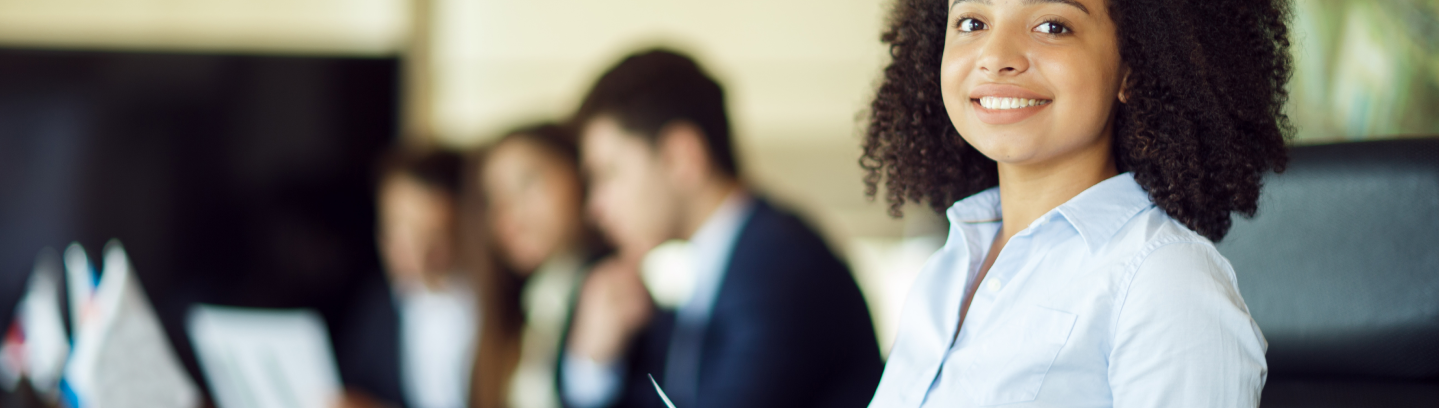
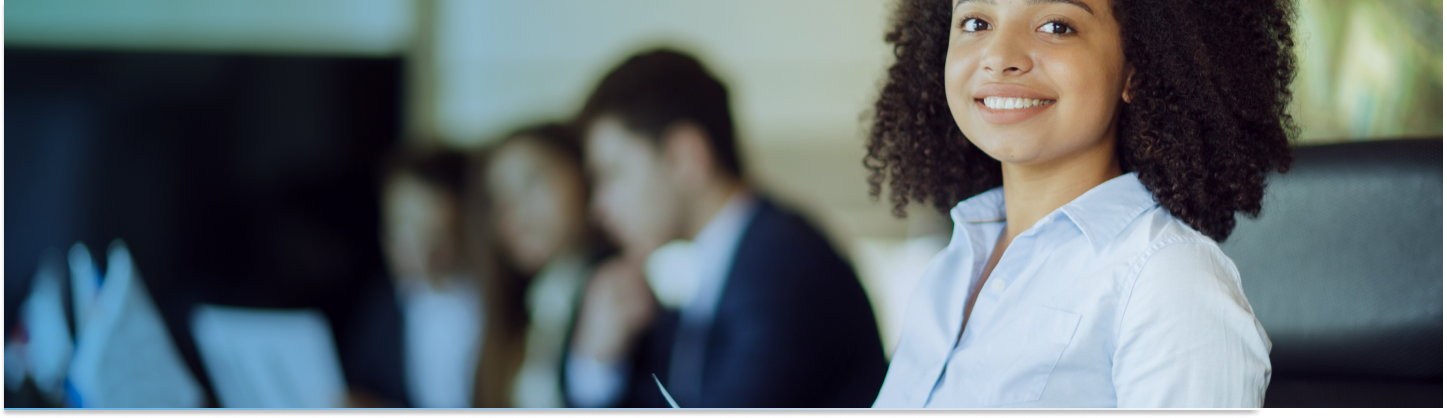
Fix no layout e nos textos

diff --git a/frontend/plaforedu/src/components/Finder.jsx b/frontend/plaforedu/src/components/Finder.jsx
@@ -59,7 +59,7 @@ export default function Finder() {
                             backgroundImage: `url(${Fundo2})`,
                             backgroundRepeat: 'no-repeat',
                             height: '408px',
-                            backgroundSize: screens.xxl ? '105vw' : 'auto auto',
+                            backgroundSize: screens.xxl ? '100%' : 'auto auto',
                             justifyContent: 'left',
                             alignItems: 'center',
                         }}
@@ -128,25 +128,29 @@ export default function Finder() {
                     borderTop: '10px solid #3291CF4D',
                     padding: '40px 0px'
                 }}
-                gutter={[40, 40]}
             >
-                <Col>
+                <Col
+                    style={{
+                        margin: '20px'
+                    }}
+                >
                     <Image src={PLAFORLOGO} preview={false} draggable='false' />
                 </Col>
                 <Col
-                    flex={'80%'}
+                    flex={'70%'}
                     style={{
-                        textAlign: 'left'
+                        textAlign: 'left',
+                        margin: '20px'
                     }}
                 >
                     <Text
                         style={{
                             fontFamily: 'Roboto',
                             fontWeight: 'bold',
-                            fontSize: '20px'
+                            fontSize: '20px',
                         }}
                     >
-                        O PlaforEdu é a plataforma utilizada pelo Plano de Formação Continuada dos Servidores da Rede Federal de Educação Profissional, Científica e Tecnológica (<a href='http://portal.mec.gov.br/apresentacao-plafor' style={{ textDecoration: 'none' }}>PLAFOR</a>). A plataforma tem como objetivo proporcionar um espaço onde os servidores podem encontrar capacitações com a finalidade de potencializar a atuação da Educação Profissional no âmbito da Rede Federal de Educação Profissional, Científica e Tecnológica (RFEPCT).
+                        Um espaço onde os servidores podem encontrar capacitações com a finalidade de potencializar a atuação da Educação Profissional no âmbito da Rede Federal de Educação Profissional, Científica e Tecnológica (RFEPCT).
                     </Text>
                 </Col>
             </Row>

diff --git a/frontend/plaforedu/src/components/header/HeaderHome.jsx b/frontend/plaforedu/src/components/header/HeaderHome.jsx
@@ -78,6 +78,7 @@ export default function HeaderHome() {
             <Menu.Item key={35} onClick={() => onClickItinerario(5)} ><Link to={'/cursos'}>Preparação para a aposentadoria</Link></Menu.Item>
           </SubMenu>
           <Menu.Item key={4}><Link to={'/faleconosco'}>FALE CONOSCO</Link></Menu.Item>
+          <Menu.Item key={5}><Link to={'/'}>FAQ</Link></Menu.Item>
         </Menu>
       </Col>
     </Row>
